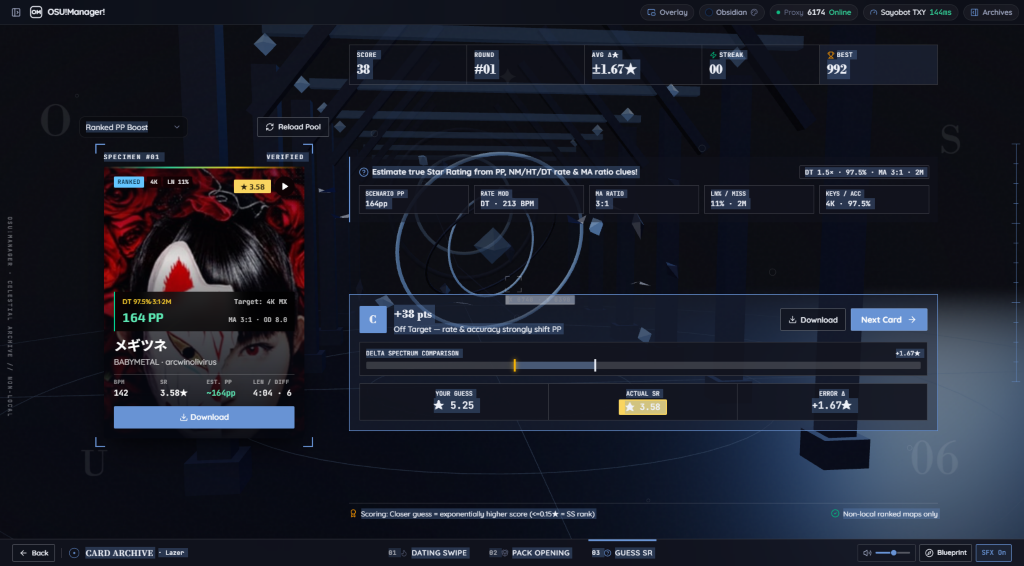
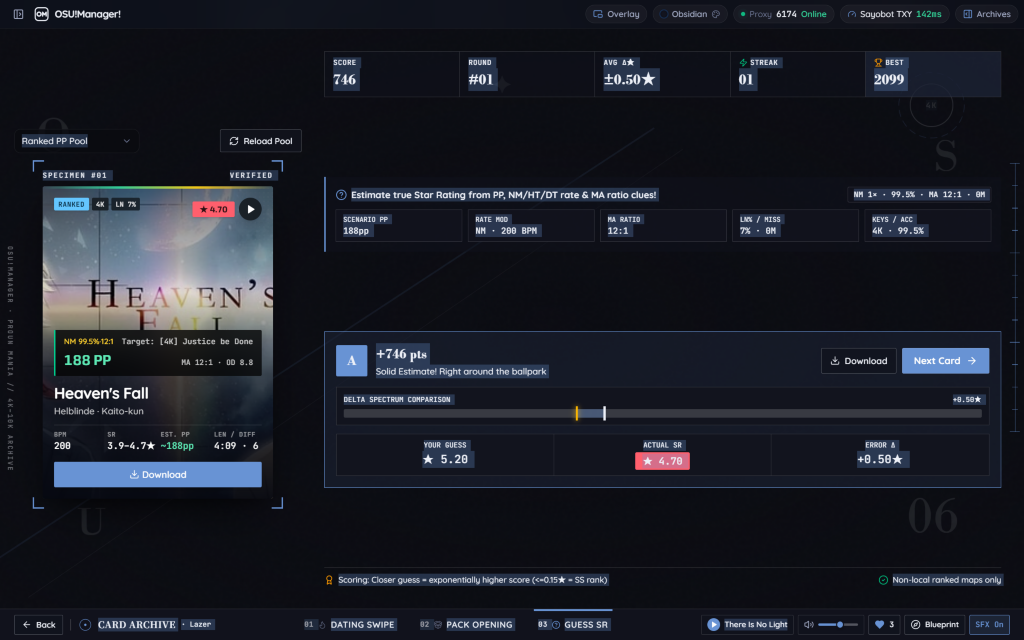
docs: update README, AGENT, CHANGELOG, DEVLOG and v1.15.0 screenshots

diff --git a/AGENT.md b/AGENT.md
@@ -49,12 +49,13 @@
 | `server/logger.ts` | 零依赖结构化运行日志，输出至控制台与 `data/logs/server.log`（>2 MB 自动轮转至 `.1`），提供 `readRecentLogs()` |
 | `server/sources.ts` | 7 个下载镜像中英双语定义（含 `nameEn`/`shortNameEn`/`descriptionEn` 与 `getLocalizedMirrorInfo()`）：`sayobot-auto`, `sayobot-txy`, `nekoha`, `osudirect`, `beatconnect`, `nerinyan`, `official` |
 | `server/network.ts` | `undici` 多 IP 协议族直连（DNS 缓存 + IPv6 优先/双栈 Happy Eyeballs）/代理路由、`6174` 端口 TCP 探测、并发镜像测速 `benchmarkMirrors()` |
-| `server/search.ts` | `osu.direct` 主搜索 + Sayobot 故障转移、官网 URL/ID 直达、LN% 估算、PP 情景反推星数与精确过滤、本地状态注入 |
+| `server/search.ts` | `osu.direct` 主搜索 + Sayobot 故障转移、官网 URL/ID 直达、LN% 估算、PP 情景反推星数与精确过滤、本地状态注入及 `drawRandomBeatmapsets()`（Probe 0 加宽抽取 + fallback 探针 `Promise.allSettled` 并发加速） |
 | `server/pp.ts` | 后端 PP 计算引擎（与前端一致的 Mania/通用公式）与 `deriveStarBoundsFromPpFilter()` 星数区间反推 |
 | `server/downloader.ts` | 并发下载队列、Magic Bytes (`PK\x03\x04`) 流首检测、自动切源重试、SSE 实时推送 |
 | `server/fastBatch.ts` | 快速跨页批量下载引擎：多镜像并发负载均衡、自动跨页扫描补齐目标数、跳过已装、IPv6/直连分流、Lazer 15 首合并 IPC 导入与节流 SSE 推送 |
 | `server/filterArchives.ts` | Filter 存档持久化管理：原子读写 `data/filter-archives.json`（上限 100 条、置顶排序、筛选条件与可选浏览位置上下文校验） |
 | `server/playlists.ts` | 音乐台歌单持久化管理：原子读写 `data/playlists.json`（上限 100 份歌单、置顶排序、曲目顺序与去重校验） |
+| `server/gachaCollections.ts` | 抽卡心动曲库与自定义多分组持久化管理：原子读写 `data/gacha-collections.json`（受保护默认分组 `default`、上限 60 分组 / 2000 首收藏，支持创建/重命名/清空/删除与单卡多分组分配） |
 | `server/installer.ts` | `.osz` ZIP 校验 (`adm-zip` 与 `verifyOszFileFast` 尾目录异步速检)、Stable 解压/直投 `.osz`（`fastInstallToStable`）/运行期临时 IPC、Lazer 极速暂存/批量导入/运行加载、`launchGameClient()` 客户端拉起 |
 | `server/library.ts` | Stable `Songs` 扫描、Lazer `client.realm`/`online.db`/`files` 哈希扫描缓存、进程检测（含 `stableExeExists` / `lazerExeExists`）、双端差异比对 |
 | `server/realmReader.ts` | 零原生依赖只读 Realm v24 (`T-DB`) 二进制解析器（带文件锁临时拷贝回退），读取 Lazer `client.realm` 谱面、难度、元数据、文件映射与游玩成绩 |
@@ -68,7 +69,7 @@
 - 配置与网络：`GET /api/config`、`PUT /api/config`、`GET/POST /api/config/detect-env`、`POST /api/config/background`、`DELETE /api/config/background`、`GET /api/network/status`、`POST /api/network/benchmark`
 - Filter 存档：`GET /api/filter-archives`、`POST /api/filter-archives`、`PUT /api/filter-archives/:id`、`DELETE /api/filter-archives/:id`
 - 本地 Book 档案库与音乐台接口：`GET /api/books`、`GET /api/books/:bookKey`、`GET /api/books/:bookKey/cover`、`GET /api/books/:bookKey/audio`、`GET /api/books/:bookKey/rhythm`、`GET/POST/PUT/DELETE /api/playlists`
-- 搜索与媒体：`GET /api/search`（含 `minPp`/`maxPp`/`ppAccuracy`/`ppRate`/`ppMisses`/`ppMaRatio`/`ppClassic`/`ppEz`/`ppNf`/`ppIncludeUnranked`）、`POST /api/gacha/draw`（随机抽取未安装非本地谱面卡池，支持 `1–20` 张与 7 种主题卡包）、`GET /api/beatmapset/:id`、`GET /api/media/cover/:id`、`GET /api/media/preview/:id`、`GET /api/media/custom-bg`
+- 搜索与媒体：`GET /api/search`（含 `minPp`/`maxPp`/`ppAccuracy`/`ppRate`/`ppMisses`/`ppMaRatio`/`ppClassic`/`ppEz`/`ppNf`/`ppIncludeUnranked`）、`POST /api/gacha/draw`（随机抽取未安装非本地谱面卡池，支持 `1–20` 张与 7 种编号卡池）、`GET/POST/PUT/DELETE /api/gacha/collections*`（心动曲库多分组持久化读写与分组批量操作）、`GET /api/beatmapset/:id`、`GET /api/media/cover/:id`、`GET /api/media/preview/:id`、`GET /api/media/custom-bg`
 - 预览与皮肤：`GET /api/preview/beatmapset/:setId`、`GET /api/preview/beatmapset/:setId/chart/:index`、`GET /api/preview/beatmapset/:setId/audio/:index`、`GET /api/preview/beatmapset/:setId/bg/:index`、`GET /api/skins`、`GET /api/skins/:skinId/mania`、`GET /api/skins/:skinId/asset`
 - 本地曲库、Lazer 与游戏加载/启动：`GET /api/library/status`、`POST /api/library/rescan`、`GET /api/library/diff`、`POST /api/library/sync-to-lazer`、`POST /api/library/open-folder`（支持 `subFolder`）、`GET /api/lazer/pending`、`POST /api/lazer/import-pending`、`DELETE /api/lazer/pending`、`POST /api/game/load`、`POST /api/game/launch`
 - 下载、快速批量与实时推送：`GET /api/downloads`、`POST /api/downloads`、`POST /api/downloads/batch`、`POST /api/downloads/:id/cancel`、`POST /api/downloads/:id/retry`、`DELETE /api/downloads/completed`、`GET/POST /api/fast-batch/(status|start|pause|resume|stop|clear)`、SSE `GET /api/events`（事件：`downloads`, `network`, `library`, `fast-batch`）
@@ -85,7 +86,7 @@
 | `src/utils/pp.ts` | Ranked PP 准度制计算引擎（含 35 组 `NM / DT / HT / 变速` 情景预设与双语主/副展示文案、`localStorage` 自定义情景持久化、`calculateBeatmapPp`, `getQuickPpSummary`, `getBeatmapsetPpBadge`, `extractPpScenarioFromFilters`, `formatPpScenarioShort`, `isRankedForPp`） |
 | `src/utils/filterArchive.ts` | Filter 存档筛选净化、双语自动命名、语义摘要标签提取与创建时间格式化工具 |
 | `src/utils/maniaEngine.ts` | osu!mania Canvas2D 轨道渲染器（480p 坐标、BPM+SV 时间轴、PerCy `NoteBodyStyle` 0/1/2）与右侧滚动缩略图绘制引擎 |
-| `src/api.ts` | 前端 REST 封装（含随机抽卡 `drawGachaBeatmapsets`、Book 档案库、自定义壁纸、IPv6 网络状态、快速批量下载与游戏客户端启动接口） |
+| `src/api.ts` | 前端 REST 封装（含随机抽卡 `drawGachaBeatmapsets`、`fetchGachaCollections`/分组与收藏 CRUD、Book 档案库、自定义壁纸、IPv6 网络状态、快速批量下载与游戏客户端启动接口） |
 | `src/types.ts` | 与后端对齐的前端 TypeScript 类型 |
 | `src/components/TitleBar.tsx` | 无边框顶部栏（左侧栏与右侧存档栏折叠按钮、单色粗线 `OM` 图标 `LaneEmblem` + `OSU!Manager!`、浮窗开关、8 主题分组弹窗、动态代理端口/直连状态按钮、镜像延迟、窗口控制） |
 | `src/components/SideRail.tsx` | `pbakaus/impeccable` 风格可折叠左侧栏（三段工作区模式切换、并排 `Book 档案库 / 3D Books \| OSU 音乐台 / OSU! Audio` 入口、目标三段胶囊、下划线变体、5px 圆点预设、单线双端曲库摘要、并排「启动 Stable / Lazer」按钮、快速批量/队列/设置入口） |
@@ -129,17 +130,18 @@
 | `src/components/OnboardingModal.tsx` | 首次安装 6 步交互式环境配置与新手引导向导（右上角含 `中文 / EN` 快速切换、调用 `/api/config/detect-env` 探测多盘符客户端路径与本机代理端口，支持代理模式/端口预设、下载策略、实时主题/字号预览、配置摘要保存及防输入框箭头误触） |
 | `src/components/SelectField.tsx` | 统一下拉封装（支持 `<optgroup>` 嵌套匹配，解决 Chromium 原生箭头重叠问题） |
 | `src/components/gacha/gachaSketch.ts` | 参考 `Funkierry/the-masses-travels` 移植的确定性手绘 SVG 几何原语（过头抖动星环 `ring`、拱曲延展标尺 `rule`、毛笔 `brush`、光刃 `blade`、裁切角 `crops` 与星座连接） |
-| `src/components/gacha/GachaSanctumWorld.ts` | Three.js 程序化圣堂建筑舞台控制器（响应全局 `--t-canvas` / `--t-osu` 动态换色、对称拱柱廊、玫瑰窗、悬浮旋转星仪、光刃碎片与飞羽、3 模式镜头运镜、`Blueprint` 线框模式与炸裂脉冲） |
-| `src/components/gacha/GachaAtmosphere.tsx` | 全屏氛围层（Three.js 挂载、全局主题色同步、轻量透明面纱、纸张噪点、构造网格、指针连线点阵、左侧竖排注记与右侧标尺、脱离目标即时复位且避开底栏的 Reticle 准星、`z-[4]` 底层定格构造脉冲与 `<ScrambleText>` 解码） |
-| `src/components/gacha/GachaPackPlate.tsx` | 封印祭坛多层视差手绘图版（统一随 `--ga-cobalt` / `--ga-ink` 全局主题调色盘变色的半调网点圆盘、倾斜光环、圆环铭文与 `Y1–Y6` 标尺） |
-| `src/components/gacha/GachaStudio.tsx` | 随机抽卡工作室总控界面（纤细底部导航栏 `01 约会试听 / 02 卡包典藏 / 03 星数推演`、默认 `dating`、同步 `--t-osu`/`--t-canvas`、`B` 构造线热键、音量滑条 `--fill` 与猜星详情隔离） |
-| `src/components/gacha/GachaPackMode.tsx` | 卡包典藏模式（更窄且可收起/展开的 `SERIES 01–07` 档案侧栏、`1–20` `--fill` 跟踪滑动条、通透开包祭坛、统一主题色收藏卡包、`1–20` 张 3D 椭圆圆环阵列旋转舞台与 360° 检视入口） |
-| `src/components/gacha/GachaCardInspectorModal.tsx` | **新增**：Portal 挂载至 `document.body` (`z-[48]`) 的 360° 3D 立体卡片检视弹窗（`data-dark="true"` 独立暗色画廊背板、鼠标惯性 360° yaw/pitch 拖拽、滚轮缩放、10px 星级发光倒角厚边、`F` 翻转、`R` 复位、`←/→` 切卡） |
-| `src/components/gacha/GachaDatingMode.tsx` | 约会试听模式（默认模式：通透无遮罩舞台、放大卡牌尺寸、右侧下方扇形叠放预告下两张卡片、默认收起的可折叠右侧「心动曲库」抽屉与切卡自动试听） |
-| `src/components/gacha/GachaGuessMode.tsx` | 星数推演模式（移除卡片/得分卡 `详情` 入口、通透无面板遮罩舞台、Zap 图标连击计数、24 种 `NM/HT/DT` + 黄彩比 `MA Ratio` / Miss / Mod 情景与预测误差标尺） |
-| `src/components/gacha/BeatmapGachaCard.tsx` | 无边框 `3px` 收藏级 3D 正反谱面卡（悬停卡背星光光晕与裁切角、翻牌粒子+光刃特效、支持可选 `onInspect` 360° 检视触发器与统一主题主按钮色） |
-| `src/components/gacha/PaimonStarfieldBack.tsx` | 派蒙星空斗篷卡背（纯 GPU 合成星云/闪烁星辰叠加 `gachaSketch` 双重套印手绘星盘与极简细体 `osu!` / `CELESTIAL DECK` 标识） |
-| `src/components/gacha/gachaUtils.ts` | 卡包配置（`GachaPackSigil` 徽记、全包统一主题映射）、星数光谱光晕分级、24 种严格 `NM/HT/DT` + 黄彩比 `maRatioLabel` 猜星情景与指数评分公式 |
+| `src/components/gacha/GachaSanctumWorld.ts` | Three.js PROUN × `osu!mania` 圣堂建筑舞台控制器（响应全局 `--t-canvas` / `--t-osu` 动态换色、普劳恩斜向钢梁与悬浮圆盘、对称左右侧 4K 下落短键/长条音符列、中央呼吸 Hit Circle 与 Approach Ring、`Blueprint` 线框与炸裂脉冲） |
+| `src/components/gacha/GachaAtmosphere.tsx` | 全屏氛围层（Three.js 挂载、全局主题色同步、斜向构图法则线与右上角 `4K` 圆环水印、指针连线点阵、左侧竖排注记与右侧标尺、脱离目标即时复位且避开底栏的 Reticle 准星、`z-[4]` 底层定格构造脉冲与 `<ScrambleText>` 解码） |
+| `src/components/gacha/GachaPackPlate.tsx` | 包豪斯斜切构成主义卡包封套视差手绘图版（深红斜梁、4K 双侧虚线轨、全球统一 `--ga-cobalt` / `--ga-ink` 主题变色圆盘与 `POOL 01–07` 编号印记） |
+| `src/components/gacha/GachaStudio.tsx` | 随机抽卡工作室总控界面（纤细底部导航栏 `01 约会试听 / 02 卡包典藏 / 03 星数推演`、默认 `dating`、后台预温 Pool `01` 缓存池、`data/gacha-collections.json` 多分组收藏状态调度、Pool `07` 自选规则状态、`B` 构造线热键与猜星详情隔离） |
+| `src/components/gacha/GachaPackMode.tsx` | 卡包典藏模式（去除冗余辅助文案、按容器宽高自适配放大的包豪斯斜切卡包与 `1–20` 张 3D 椭圆圆环舞台、卡池 `01–07` 选择与独立 Pool `07` 规则编辑入口、复用工作室预取与并发态接入实现秒开及 360° 检视） |
+| `src/components/gacha/GachaCardInspectorModal.tsx` | Portal 挂载至 `document.body` (`z-[48]`) 的 360° 3D 立体卡片检视弹窗（`data-dark="true"` 独立暗色画廊背板、放大卡身、鼠标惯性 360° yaw/pitch 拖拽、滚轮缩放、`14px` PROUN 工业拉丝金属脊与纵向 `OSU! // ★SR // BPM // #serial` 刻印及星级中缝霓虹、收藏红心、`F` 翻转、`R` 复位、`←/→` 切卡） |
+| `src/components/gacha/GachaDatingMode.tsx` | 约会试听模式（默认模式：通透无遮罩舞台、放大卡牌尺寸、右侧下方扇形叠放预告下两张卡片、顶部滑动目标分组选择器与切卡自动试听） |
+| `src/components/gacha/GachaCustomFilterModal.tsx` | **新增**：Portal 弹窗形式 `POOL 07`「条件自选池」独立筛选配置面板（支持关键词/Keys/状态/SR/BPM/LN%/时长编辑，以及一键同步主搜图条件或导入 Filter 存档） |
+| `src/components/gacha/GachaLikedDrawer.tsx` | **新增**：默认收起的右侧多分组持久化「心动曲库」抽屉（支持新建、内联重命名、清空、安全删除分组、单曲多分组勾选分配、切换滑动目标组与按组一键批量下载） |
+| `src/components/gacha/BeatmapGachaCard.tsx` | 无边框 `3px` 收藏级 3D 正反谱面卡（悬停卡背星光光晕与裁切角、翻牌粒子+光刃特效、右下角全局收藏红心按钮、`--ga-cobalt`/`--t-osu` 统一主按钮色与可选 `onInspect` 360° 检视） |
+| `src/components/gacha/PaimonStarfieldBack.tsx` | 派蒙星空斗篷卡背（纯中性暗炭底高比例 `color-mix` 融合全局 `--t-osu` 与纯 CSS 中央星辉光晕，叠加 `gachaSketch` 双重套印手绘星盘与极简细体 `osu! / 4K // ARCHIVE` 标识） |
+| `src/components/gacha/gachaUtils.ts` | 去中二构图番号卡池配置（`01 综合图池`–`07 条件自选池`，含 `GachaPackSigil` 徽记与主题统一映射）、简明等级名（标准/进阶/专家/大师/巅峰）、24 种严格 `NM/HT/DT` + 黄彩比猜星情景与评分公式 |
 | `src/components/gacha/gachaSound.ts` | Web Audio API 合成开包撕裂、悬停律动、分阶翻牌爆裂、滑卡与猜星揭晓音效 |
 
 ---

diff --git a/README.md b/README.md
@@ -98,18 +98,18 @@
     <td width="50%" align="center" valign="top">
       <a href="docs/screenshots/10-gacha-pack.png"><img src="docs/screenshots/10-gacha-pack.png" alt="Random Card Draw — 3D Circular Ring Pack Opening Mode" width="100%" /></a>
       <br />
-      <strong>10 · 随机抽卡 · 02 卡包典藏（3D 圆环阵列 + 拖拽/滚轮旋转 + 派蒙星图卡背）</strong>
+      <strong>10 · 随机抽卡 · 02 卡包典藏（PROUN 构成主义圣堂 + 4K 音符下落 + 3D 圆环）</strong>
       <br />
-      <sub>3D circular card ring (`1–20` cards), drag/wheel orbit, click revealed card for 360° slab inspect</sub>
+      <sub>PROUN × osu!mania 4K sanctum, numbered pools (<code>01–07</code>), 3D card ring &amp; hover star glows</sub>
     </td>
   </tr>
   <tr>
     <td width="50%" align="center" valign="top">
       <a href="docs/screenshots/11-gacha-dating.png"><img src="docs/screenshots/11-gacha-dating.png" alt="Random Card Draw — Default Dating Swipe Mode with Right-Fanned Preview Stack" width="100%" /></a>
       <br />
-      <strong>11 · 随机抽卡 · 01 约会试听（默认模式 · 超大卡牌右向扇形叠放 + 极简底部导航栏）</strong>
+      <strong>11 · 随机抽卡 · 01 约会试听（默认模式 · 多分组目标归档与放大卡牌）</strong>
       <br />
-      <sub>Default tab, enlarged cards fanned right, collapsed Liked drawer, open Three.js canvas &amp; auto-play audio</sub>
+      <sub>Default tab, enlarged cards fanned right, direct swipe-to-group targeting &amp; multi-group Liked drawer</sub>
     </td>
     <td width="50%" align="center" valign="top">
       <a href="docs/screenshots/12-gacha-guess.png"><img src="docs/screenshots/12-gacha-guess.png" alt="Random Card Draw — Obsidian Dark English Guess SR Mode with NM/HT/DT and MA Ratio" width="100%" /></a>
@@ -123,16 +123,16 @@
     <td width="50%" align="center" valign="top">
       <a href="docs/screenshots/13-gacha-altar.png"><img src="docs/screenshots/13-gacha-altar.png" alt="Random Card Draw — Unified Global-Theme Collector Sleeve and Collapsible Pack Dossier" width="100%" /></a>
       <br />
-      <strong>13 · 随机抽卡 · 封印祭坛与主题同步卡包（可收起窄版侧栏 + 顺滑进度滑动条）</strong>
+      <strong>13 · 随机抽卡 · 包豪斯斜切收藏卡包（独立 07 条件自选池弹窗 + 后台秒开预取）</strong>
       <br />
-      <sub>Unified global-theme sleeve on open Three.js Sanctum, collapsible narrow Pack Dossier &amp; calibrated range slider</sub>
+      <sub>Bauhaus diagonal-slash theme-synced pack sleeve, editable Pool <code>07</code> filters &amp; background prefetch</sub>
     </td>
     <td width="50%" align="center" valign="top">
       <a href="docs/screenshots/14-gacha-inspector.png"><img src="docs/screenshots/14-gacha-inspector.png" alt="Random Card Draw — 360° 3D Collector Slab Inspector Modal" width="100%" /></a>
       <br />
-      <strong>14 · 随机抽卡 · 360° 3D 立体卡片检视器（鼠标任意拖拽 360° 旋转与实体星级倒角厚边）</strong>
+      <strong>14 · 随机抽卡 · 360° 3D 立体检视（14px PROUN 铭文金属脊 + 主题同调星空卡背）</strong>
       <br />
-      <sub>360° inertial drag yaw/pitch, wheel zoom, Flip <code>180° (F)</code>, Reset <code>(R)</code> &amp; star-rarity 10px bevel edges</sub>
+      <sub>360° drag/zoom slab inspector, <code>14px</code> PROUN metallic engraved spine &amp; theme-tinted celestial card back</sub>
     </td>
   </tr>
 </table>
@@ -189,12 +189,12 @@
    - 覆盖搜图选歌、详情/PP 计算器、Mania 预览器、3D Book 档案库、OSU! 音乐台、游戏内浮窗、Electron 系统托盘菜单与后端错误/镜像描述的全量中英双语体验。
    - 可在「设置 → 分区 3」或新手引导右上角切换 `简体中文` / `English`（切换立即预览，点保存持久化至 `config.json`，取消/Esc 自动回滚）；右上角测速状态与提示文案严格跟随用户实际配置的 `proxyPort`（不再固定写死 `6174`）与直连/代理模式动态显示。
 
-10. **随机抽卡工作室（`v1.14.0` — 细长底部导航 Dock · 全局主题同色卡包 · 3D 圆环与 360° 立体检视）**
+10. **随机抽卡工作室（`v1.15.0` — PROUN × osu!mania 圣堂 · 14px 金属铭文脊 · 秒开预取 · 多分组心动曲库）**
    - 在浏览模式 `Lazer` 按钮右侧提供「随机抽卡」入口，打开后**自动收起主左侧栏与存档栏**；模式切换栏下移至纤细的**底部导航 Dock**，**默认直接进入 `01 约会试听`**（顺序为 `01 约会试听 · 02 卡包典藏 · 03 星数推演`）。所有定格构造转场动画沉底于 `z-[4]` 背景层，不再浮压界面元素。
-   - **Three.js 圣堂通透画布与全主题配色联动**：三大模式主舞台全部去除厚重遮罩面板，让实时响应全球 `--t-canvas` 与强调色 `--t-osu` 的 Three.js 圣堂建筑舞台完整透出；支持 `B` 键快速切换构造线框。
-   - **01 约会试听（默认模式）**：放大卡牌展示尺寸并在**右侧下面扇形叠放预览下一张卡片**，支持左右滑卡、快捷键、撤回与切卡自动试听；右侧「心动曲库」改为默认收起的折叠抽屉。
-   - **02 卡包典藏与 360° 3D 检视**：左侧卡包清单更窄且支持自由收起/展开，抽卡数量滑条 (`1–20`) 填充轨道精确跟随滑块；7 种收藏卡包统一映射当前全局主题色；撕开卡包后所有卡牌按 **3D 椭圆圆环阵列** 分布（支持拖拽空白处、滚轮或左右箭头旋转圆环），悬停卡背亮起对应真实星数光谱光晕与裁切角框，点击任意已翻开正面卡片即可进入 **360° 3D 立体检视弹窗**（鼠标惯性 360° 自由旋转、滚轮缩放、10px 星级倒角厚边、`F` 翻转至派蒙星空卡背、`R` 复位）。
-   - **03 星数推演**：移除卡片 `详情` 入口严格防止窥见真实星数，扩充 24 种严格基于 `NM (1.0x)` / `HT (0.75x)` / `DT (1.5x)` 倍率与**黄彩比（`MA Ratio`）**/ Miss / `EZ` / `Classic` 组合的高信息量情景线索，并将连续精准指标图标焕新为干净的闪电连击徽标（移除火苗 Emoji）。
+   - **PROUN × osu!mania 圣堂舞台与主题同调星图卡背**：Three.js 圣堂舞台融合普劳恩斜向钢梁、悬浮几何圆盘、左右侧 `osu!mania` 4K 下落短键/长条轨道与中央呼吸 Hit Circle / Approach Ring（支持 `B` 键切换构造线框）；派蒙星空卡背采用中性黑炭底色高比例融合全局主题 `--t-osu`，随瓷器白 / 樱雾浅粉 / 松影暗绿等主题呈现深色同调星空质感。
+   - **01 约会试听与多分组持久心动曲库**：放大卡牌并在右侧扇形叠放预报下两张卡片，顶部支持直接切换滑动归属的目标分组（如「默认心动」或自建「高难练习」分组）；全模式收藏持久保存至 `data/gacha-collections.json`，右侧多分组心动抽屉支持**新建、重命名、清空、删除分组、单曲多分组勾选分配与按组一键批量下载**。
+   - **02 卡包典藏、`07 条件自选池` 与 360° 铭文金属脊检视**：精简去除了「开包提示语」等冗余文案，采用包豪斯斜切造型卡包与 `01 综合图池`–`07 条件自选池` 编号体系（含独立「07 条件自选池」弹窗，可同步当前搜图条件或一键导入 Filter 存档）；随视口尺寸等比放大卡包与 3D 圆环阵列并内置工作台后台预取 + 后端并发探针加速秒开；点击已翻开卡牌进入 **360° 3D 立体检视**，配备 **`14px` PROUN 工业铭文金属侧脊**（星级霓虹中缝 + 纵向 `OSU! // ★SR // BPM // #serial` 刻印）、`F` 翻面、`R` 复位与收藏快捷按钮。
+   - **03 星数推演**：移除卡片 `详情` 入口严格防止窥见真实星数，提供 24 种严格基于 `NM (1.0x)` / `HT (0.75x)` / `DT (1.5x)` 倍率与**黄彩比（`MA Ratio`）**/ Miss / `EZ` / `Classic` 组合的情景线索与闪电连击徽标。
 
 ### 快速开始
 
@@ -270,12 +270,12 @@ No osu! login or session cookie is required. It brings together multi-mirror bea
 - **Full ZH / EN Bilingual Switcher & Dynamic Proxy Diagnostics**
   - Complete Simplified Chinese & English localization across Browse, Beatmap Detail & PP Calculator, Mania Previewer, 3D Book Archive, OSU! AUDIO Music Station, Acrylic Overlay, Electron Tray/Hotkeys, and backend mirror/status responses.
   - Switch live via **Settings → Section 3 (`简体中文 | English`)** or the onboarding header pill (persisted in `config.json`, safely rolls back on Cancel/Esc). Top-bar latency checks and toast notifications dynamically reflect your configured `proxyPort` or `Direct` mode.
-- **Random Card Draw Studio (`v1.14.0` — Slim Bottom Dock, Theme-Synced Sleeves, 3D Ring & 360° Inspector)**
-  - Accessible beside the `Lazer` view button in Browse mode; **automatically collapses both sidebars** on launch and exclusively draws non-local beatmapsets.
-  - **Slim Bottom Dock & Open Three.js Stage**: Navigation sits in a sleek bottom dock defaulting directly to **`01 Dating Swipe`** (`01 Dating · 02 Packs · 03 Guess`). Frosted enclosing veils are stripped so the live Three.js Sanctum backdrop (synced dynamically to `--t-canvas` & `--t-osu`), `B` Blueprint wireframe toggle, and background-layered (`z-[4]`) transitions remain crystal clear.
-  - **01 Dating Swipe (Default)**: Enlarged rectangular cards (`~405×600px`) fan the next two upcoming cards visibly to the right underneath the active card, with a **collapsible Liked Archive drawer collapsed by default** and instant auto-playing audio previews.
-  - **02 Pack Opening & 360° 3D Slab Inspector**: Features a narrower collapsible Pack Dossier rail, synced `--fill` card count range slider (`1–20`), unified global-theme collector pack sleeves, and an interactive **3D circular card ring** (orbit by drag, wheel, or buttons) with star-rarity hover glows and Paimon starfield card backs. Clicking any revealed card launches the full-screen **360° 3D Collector Slab Inspector** with inertial mouse-drag 360° yaw/pitch rotation, zoom, 10px rarity bevel edges, `Flip 180° (F)`, and `Reset (R)`.
-  - **03 Guess SR**: Removes the card `Details` modal button so stars stay hidden, provides 24 richer randomized scenarios strictly using **`NM (1.0x)` / `HT (0.75x)` / `DT (1.5x)`** rates with **MA Ratio** (`黄彩比`), misses, and mod clues, uses a crisp Zap streak counter without fire emojis, and renders over the open Three.js canvas.
+- **Random Card Draw Studio (`v1.15.0` — PROUN × osu!mania Sanctum, 14px Metallic Spine, Fast Prefetch & Grouped Likes)**
+  - Accessible beside the `Lazer` view button in Browse mode; **automatically collapses both sidebars** on launch and exclusively draws non-local beatmapsets through clean numbered card pools (`01 All-Pool Mix` – `07 Custom Filter Pool`) and tier labels (`Standard` – `Apex 8★+`).
+  - **PROUN × osu!mania 4K Sanctum & Theme-Synced Card Back**: The open Three.js backdrop blends Constructivist diagonal girders and floating discs with flanking `osu!mania` 4K falling short/LN pillars and a breathing central Hit Circle + Approach Ring (`B` key toggles blueprint wireframe). The Paimon starfield card back mixes neutral charcoal with `--t-osu` so themes like Sakura pink and Forest emerald tint the deep starry cloak organically.
+  - **01 Dating Swipe & Persistent Multi-Group Collections**: Enlarged right-fanned card deck with instant audio playback and a direct header target-group selector for swiped likes. Favorites persist server-side in `data/gacha-collections.json` with a collapsible **Multi-Group Liked Drawer** supporting group create/rename/clear/delete, per-song group assignment checkboxes, and one-click group batch download.
+  - **02 Pack Opening, Custom Pool `07` Modal & 360° Metallic Spine**: Features enlarged viewport-adaptive Bauhaus diagonal-slash pack sleeves and 3D circular rings with redundant helper hints removed, Studio-level Pool `01` pre-warming plus parallel backend fallback probes for rapid opening, and an independent **Pool `07` Custom Filter Modal** (with Browse filter sync & Filter Archive import). Clicking any revealed card opens the **360° 3D Slab Inspector** sporting **`14px` brushed PROUN metallic side spines** with engraved `OSU! // ★SR // BPM // #serial` edges, star-rarity seam glow, `F` flip, `R` reset, and favorite toggle.
+  - **03 Guess SR**: Keeps `Details` locked so stars stay hidden, serves 24 scenarios strictly using **`NM (1.0x)` / `HT (0.75x)` / `DT (1.5x)`** rates with **MA Ratio**, misses, and mod clues, plus a crisp Zap streak counter on the open Three.js canvas.
 
 ### Quick Start
 

diff --git a/docs/DEVLOG.md b/docs/DEVLOG.md
@@ -4,6 +4,32 @@
 
 ---
 
+## Session 25 — PROUN 圣堂、主题星图卡背、14px 金属脊、秒开预取、自选池弹窗与多分组持久心动曲库 (`v1.15.0`)
+
+- **日期**：2026-11-26
+- **对话 ID**：`09e49c4e-3701-4043-82c7-d9fba139a0f4`
+- **功能代码提交**：`fbdb581`
+
+### 需求与设计决策 (`/grill-me` 对齐 10 项需求)
+1. **背景 × 卡包视觉统一 (#1 / #8)**：选用「方案 A · 普劳恩节奏圣堂 (`PROUN`)」，将 Three.js 场景与 `GachaAtmosphere` / `GachaPackPlate` 统一为斜梁、悬浮几何盘、`osu!mania` 4K 下落轨道、中央呼吸 Hit Circle 与包豪斯斜切卡包。
+2. **精简文案与自适应放大 (#2 / #3)**：移除开包底部及圆环拖拽提示文案；根据舞台宽高比放大卡包封套、3D 圆环单卡与检视器卡片尺寸，并通过 `1280×720` 与 `1440×900` 零溢出验证。
+3. **360° 金属脊与主题卡背 (#4 / #5)**：`GachaCardInspectorModal` 新增 `14px` PROUN 工业铭文金属脊（纵向 `OSU! // ★SR // BPM // #serial` + 星级中缝光）；`PaimonStarfieldBack` 改为中性黑炭基色混合 `--t-osu` 与纯 CSS 中央辐射光晕，使 Sakura/Forest 等主题呈现纯正同调深色星空。
+4. **秒开、定制自选池与去中二编号 (#6 / #7 / #9)**：采用编号图池 `01 综合图池`–`07 条件自选池`；后端 `drawRandomBeatmapsets()` 并发执行 fallback 探针、前端 `GachaStudio` 挂载即预热 Pool `01` 并让 `handleRipOpen` 并行接入在途预取；新增 `GachaCustomFilterModal` 支持自主配池、同步浏览筛选与导入 Filter 存档。
+5. **持久化多分组心动曲库 (#10)**：新增 `server/gachaCollections.ts` 将收藏组与曲目原子落盘至 `data/gacha-collections.json`，配合 `GachaLikedDrawer`、卡片收藏红心与约会模式目标分组直选完成跨模式持久化收藏闭环。
+
+### 关键变更文件
+- **版本与共享类型**：`package.json` (`1.15.0`)、`src/constants.ts`、`server/types.ts`、`src/types.ts`、`src/App.tsx`
+- **后端服务**：`server/gachaCollections.ts`（新增）、`server/index.ts`、(`+8` `/api/gacha/collections*` 路由)、`server/search.ts`
+- **前端接口与 Gacha UI**：`src/api.ts`、`src/components/gacha/{GachaSanctumWorld.ts,GachaAtmosphere.tsx,GachaPackPlate.tsx,GachaStudio.tsx,GachaPackMode.tsx,GachaCardInspectorModal.tsx,GachaDatingMode.tsx,GachaCustomFilterModal.tsx,GachaLikedDrawer.tsx,BeatmapGachaCard.tsx,PaimonStarfieldBack.tsx,gachaUtils.ts}`
+- **文档与截图**：`README.md`、`AGENT.md`、`CHANGELOG.md`、`docs/DEVLOG.md`、`docs/screenshots/10–14*.png`
+
+### 验证结果
+- **静态检查与构建**：`npm run typecheck` 与 `npm run build` 均以 exit code `0` 通过（未出现未包裹 i18n CJK 文案）。
+- **无头浏览器全链路 + 复测**：在隔离端口 `:3728` 完成 `1440×900` 与 `1280×720` 全模式验收与跨刷新多分组收藏持久化验证；精修复测证实 Sakura (`--t-osu: #e14b88`) 与 Forest (`--t-osu: #34d399`) 卡背分别呈纯正深樱粉与深森绿星空，`01 约会试听` 停留 `1600ms` 后切换至 `02 卡包典藏` 点击 `撕开卡包 · 5 张` 用时 `1297ms` 完成圆环渲染，控制台/WebGL/HTTP 报错均为 `0`。
+- **本地打包与冒烟**：`npm run electron:pack` 生成 `release\win-unpacked\osu-manager.exe`（`FileVersion=1.15.0`），隔离 `:3729` 冒烟验证 `GET /api/health`、`GET /`、`GET /api/gacha/collections`（含 `default` 组）与 `POST /api/gacha/draw` (`5` 张) 全数通过并清理零残留进程，仓库 `data/config.json` 保持 `898` 字节未改动。
+
+---
+
 ## Session 24 — 随机抽卡工作室 13 项 UX/美学全面升级、3D 圆环与 360° 立体检视 (`v1.14.0`)
 
 - **日期**：2026-11-26

diff --git a/CHANGELOG.md b/CHANGELOG.md
@@ -4,6 +4,24 @@ All notable changes to **OSU!Manager! (`osu-4k-dual-downloader`)** will be docum
 
 The format is based on [Keep a Changelog](https://keepachangelog.com/en/1.1.0/).
 
+## [1.15.0] - 2026-11-26
+
+### Added & Changed
+- **PROUN 构成主义 × osu!mania 4K 圣堂舞台与包豪斯斜切卡包（#1 / #8）**：
+  - `GachaSanctumWorld` 新增普劳恩斜向钢梁、悬浮几何圆盘、左右对称 `osu!mania` 4K 短键/长条音符下落柱与中央呼吸 Hit Circle / Approach Ring；`GachaAtmosphere` 加入构图斜线法则线与右上角 `4K` 圆环水印；
+  - `GachaPackPlate` 重绘包豪斯深红斜梁、4K 双侧虚线轨与 `POOL 01–07` 编号印记，继续跟随全局主题切换。
+- **卡包编号去中二、文案精简与随窗口自适配放大（#2 / #3 / #9）**：
+  - 将卡池名称重构为干净的 `01 综合图池`–`07 条件自选池`（EN `All-Pool Mix`–`Custom Filter Pool`）与 `标准 / 进阶 / 专家 / 大师 / 巅峰` 等级标识；
+  - 移除密封祭坛底部提示胶囊与圆环界面拖拽提示文案，按 Stage 宽高自适配放大未开卡包与 3D 圆环单卡尺寸（兼容 `1280×720` 与 `1440×900`）。
+- **360° 检视 `14px` PROUN 工业铭文金属脊与主题同调星空卡背（#4 / #5）**：
+  - `GachaCardInspectorModal` 为实体卡侧边打造 `14px` 拉丝暗金属厚脊，刻有纵向 `OSU! // ★SR // BPM // #serial` 铭文与星级霓虹中缝；
+  - `PaimonStarfieldBack` 改用中性黑炭底色高比例融合全局 `--t-osu` 与纯 CSS 中央星辉光晕，解决浅粉（Sakura）/ 森绿（Forest）等主题下卡背偏蓝问题。
+- **后台预取与后端并发秒开优化（#6）**：
+  - `GachaStudio` 挂载后即静默预温 Pool `01`，`GachaPackMode` 撕开动作支持并发等待 `inFlight` 预取，配合后端 `drawRandomBeatmapsets()` Probe 0 扩充抽取与 `Promise.allSettled` 并发 fallback 探针显著缩短开包等待。
+- **独立「07 条件自选池」弹窗与持久化多分组心动曲库（#7 / #10）**：
+  - 新增 `GachaCustomFilterModal`（Portal 独立配置 `q`/`keys`/`status`/SR/BPM/LN%/时长，支持一键同步当前搜图条件与导入 Filter 存档）；
+  - 新增 `server/gachaCollections.ts` 与 `/api/gacha/collections*` 接口将收藏原子写入 `data/gacha-collections.json`，新增 `GachaLikedDrawer` 支持默认分组保护、新建/重命名/清空/删除分组、单曲多分组勾选分配、按组批量下载及约会模式顶部滑动目标分组直选。
+
 ## [1.14.0] - 2026-11-26
 
 ### Added & Changed
